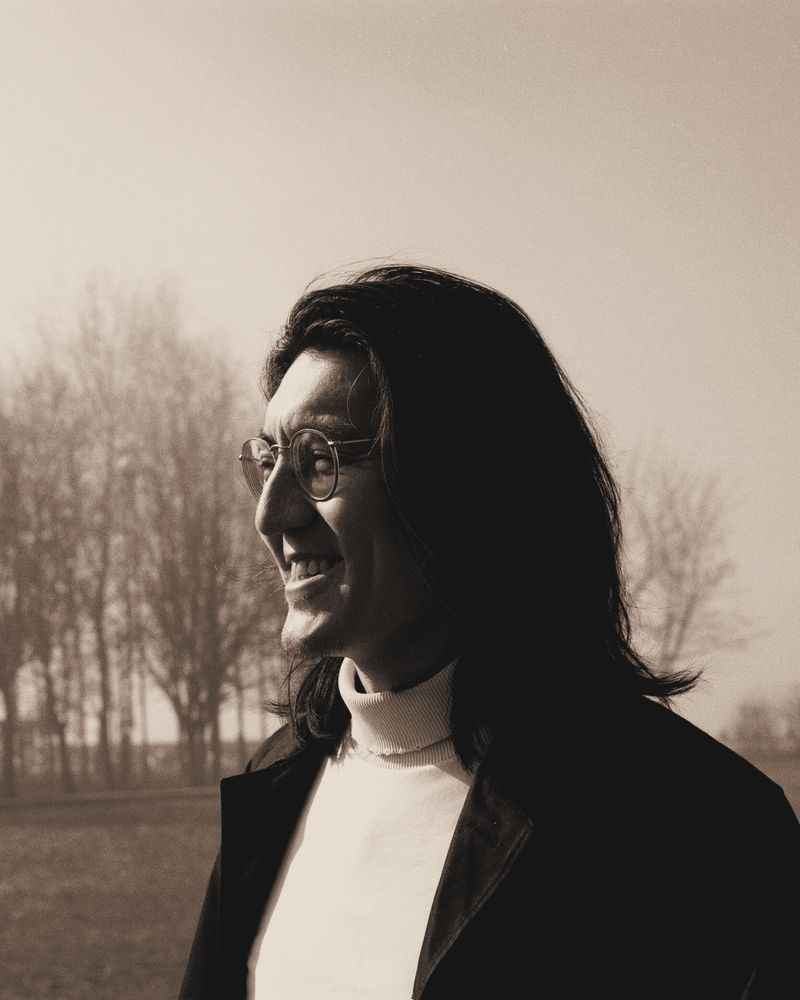
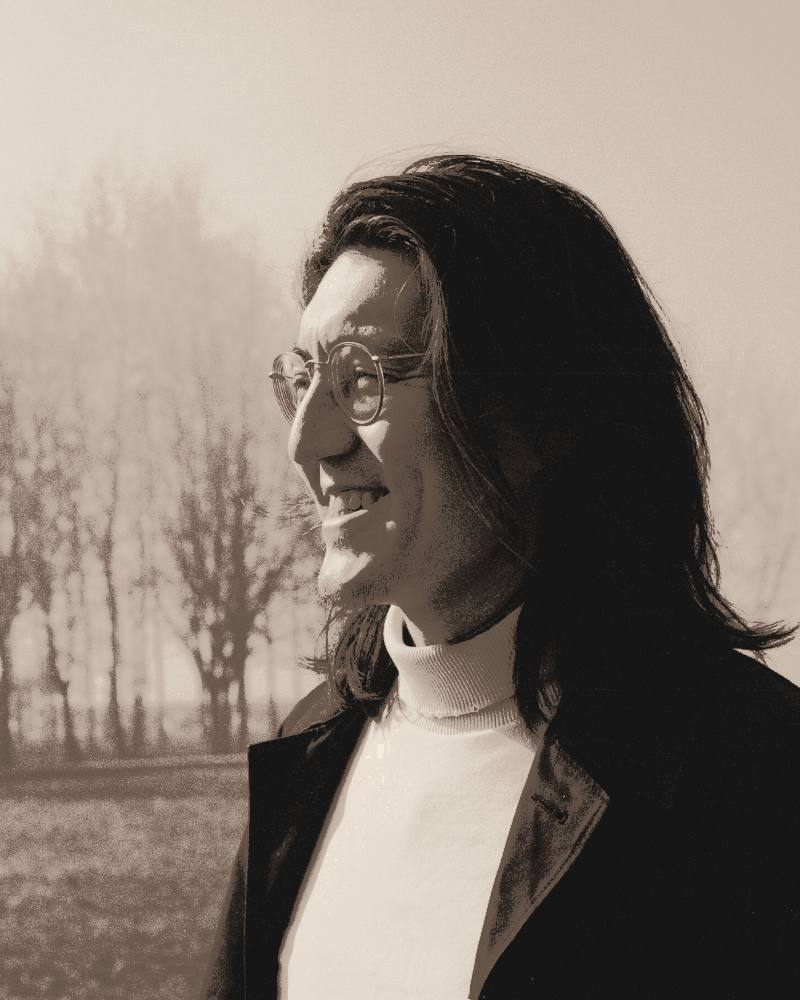
People: Mike and Pavel recropped to the eye line and head size of Andrew's portrait, and Pavel gets a 1080 px file for the landscape phone (audit D-14)
Pavel is cut again from pavel-src.jpg (x 754, y 226, 1186 by 1482) with the warm tone of the shipped file; Mike is cut from his 800 px file (x 55, y 21, 640 by 800). Andrew stays as the reference; Andrey's 594 px source allows no wider crop, and larger files for Andrew, Mike and Andrey wait for new photos.

diff --git a/felagsite.py b/felagsite.py
@@ -784,7 +784,11 @@ def sections(t, theme):
     for i, p in enumerate(PEOPLE):
         links = "".join(f'<a href="{u}" rel="noopener">{l}</a>' for l, u in p["links"])
         where = f'<div class="where">{p["where"]}</div>' if p["where"] else ""
-        pic = (f'<picture><source type="image/webp" srcset="people/{p["photo"]}.webp"><img src="people/{p["photo"]}.jpg" width="800" height="1000" alt="{p.get("alt", p["name"])}" loading="lazy" decoding="async"></picture>' if p.get("photo") else silhouette(p["seed"]))
+        # a portrait with a 1080 px file offers it to the two-column landscape layout, where an 800 px file falls short of 3x
+        big = p.get("photo") and os.path.exists(os.path.join(_HERE, "photo", "people", p["photo"] + "-1080.jpg"))
+        sets = {ext: (f'people/{p["photo"]}.{ext} 800w, people/{p["photo"]}-1080.{ext} 1080w' if big else f'people/{p["photo"]}.{ext}') for ext in ("webp", "jpg")}
+        sizes = ' sizes="(max-width:600px) 120px, (max-width:1100px) 46vw, 300px"' if big else ""
+        pic = (f'<picture><source type="image/webp" srcset="{sets["webp"]}"{sizes}><img src="people/{p["photo"]}.jpg"{f' srcset="{sets["jpg"]}"' if big else ""}{sizes} width="800" height="1000" alt="{p.get("alt", p["name"])}" loading="lazy" decoding="async"></picture>' if p.get("photo") else silhouette(p["seed"]))
         tag = "" if p.get("photo") else f'<div class="ini">{p["ini"]}</div><div class="slot">photo slot</div>'
         people += (f'<article class="person reveal" style="--i:{i}"><div class="portrait">{pic}'
                    f'{tag}</div>'
